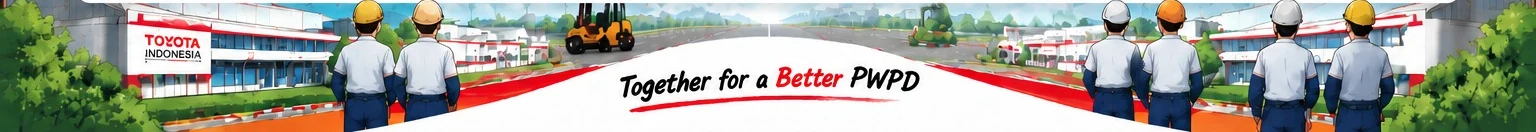
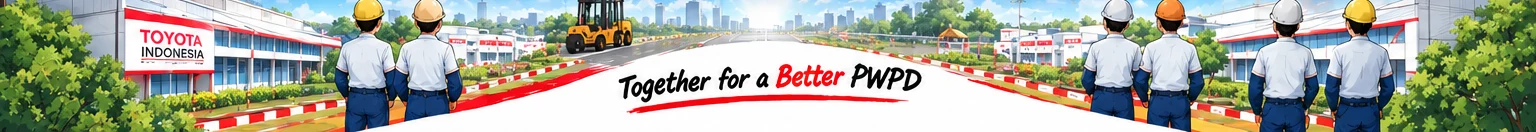
feat: adopt the v3 artwork for the public page
Aset dipotong ulang dari mockup v3. Bedanya dari v2: pekerja kini berdiri
penuh badan di tengah, dekorasi sisi memakai diagonal merah dengan polaroid
mobil, dan latar pabriknya lebih terang.

Sempat mencoba pendekatan yang lebih sederhana - satu gambar utuh dengan form
ditimpa di atasnya - karena artwork-nya memang sudah jadi. Dua hal
membatalkannya, keduanya terlihat dari screenshot dan bukan dari teori:

Pertama, artwork v3 tidak menyediakan ruang kosong untuk form. Bagian tengah
ditempati pekerja dan bagian bawah ditempati kartu lima pilar, jadi kartu form
menimpa pilarnya - hanya SAFE dan YARIGAI yang mengintip di tepi.

Kedua, di layar 390px seluruh poster menyusut jadi pita setinggi 240px
sehingga wordmark, pilar, dan tulisan bawah tak terbaca, sementara form yang
dipaksa 68 persen lebar memecah tombolnya jadi tiga baris dan menjuntai jauh
melewati gambar. Versi terpotong memakai crop hero khusus ponsel dan form
selebar layar, jadi keduanya tetap terbaca.

Menambah satu aturan: di bawah 430px tombol kirim mengecil sedikit supaya
label-nya tetap satu baris.

diff --git a/src/app/public.css b/src/app/public.css
@@ -302,3 +302,12 @@ main {
 .thanks__link {
   margin-bottom: 0;
 }
+
+@media (max-width: 430px) {
+  /* Keep "Kirim Member Voice" on one line on a narrow phone. */
+  .btn-send {
+    font-size: 1rem;
+    gap: 8px;
+    padding: 15px 16px;
+  }
+}
